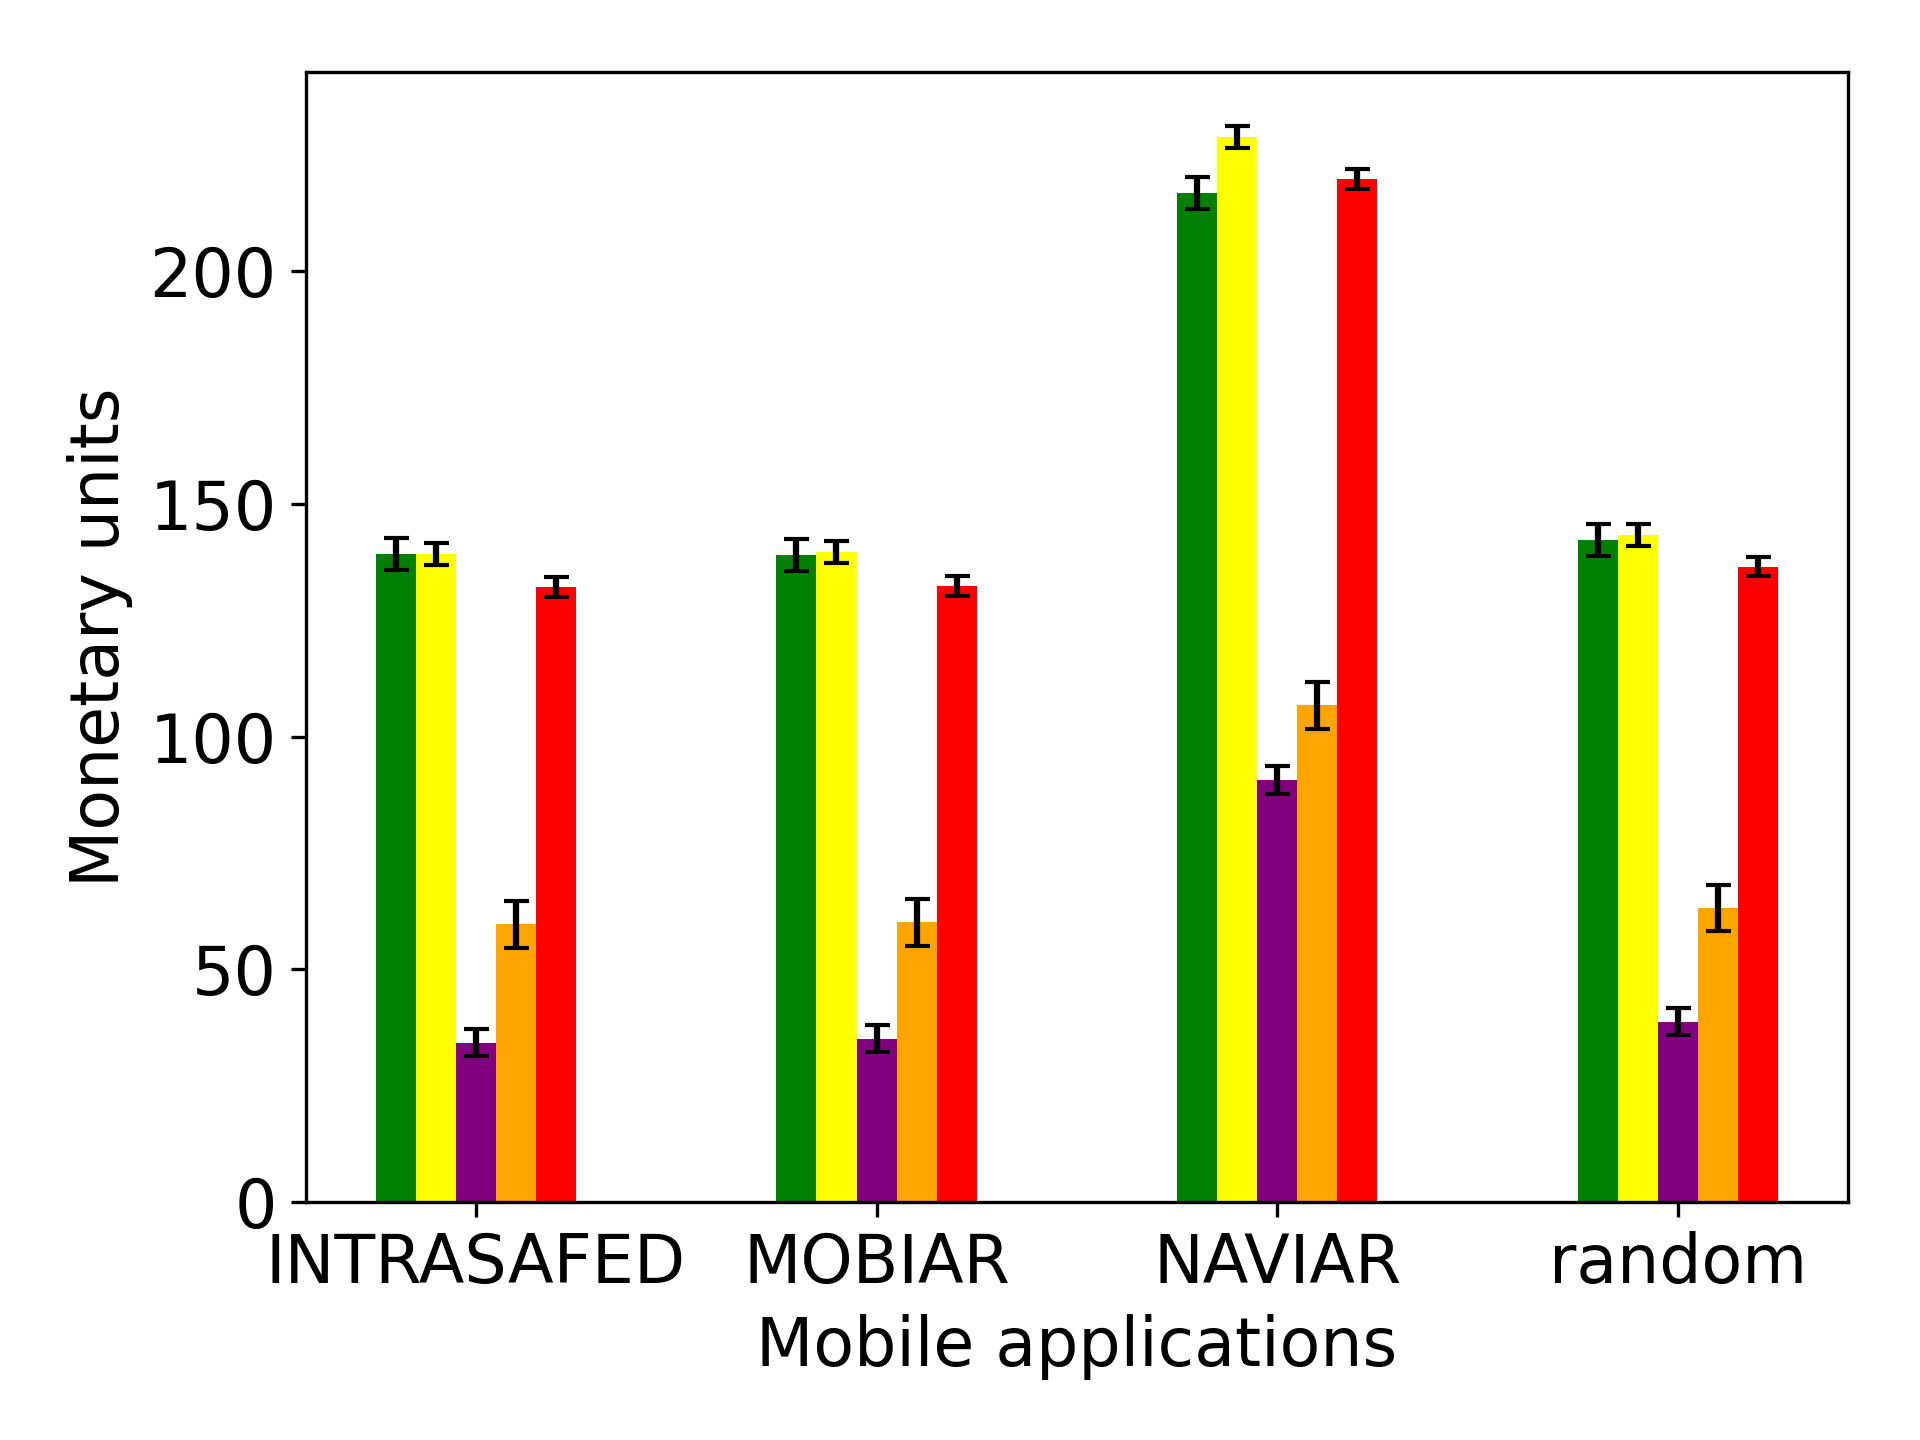
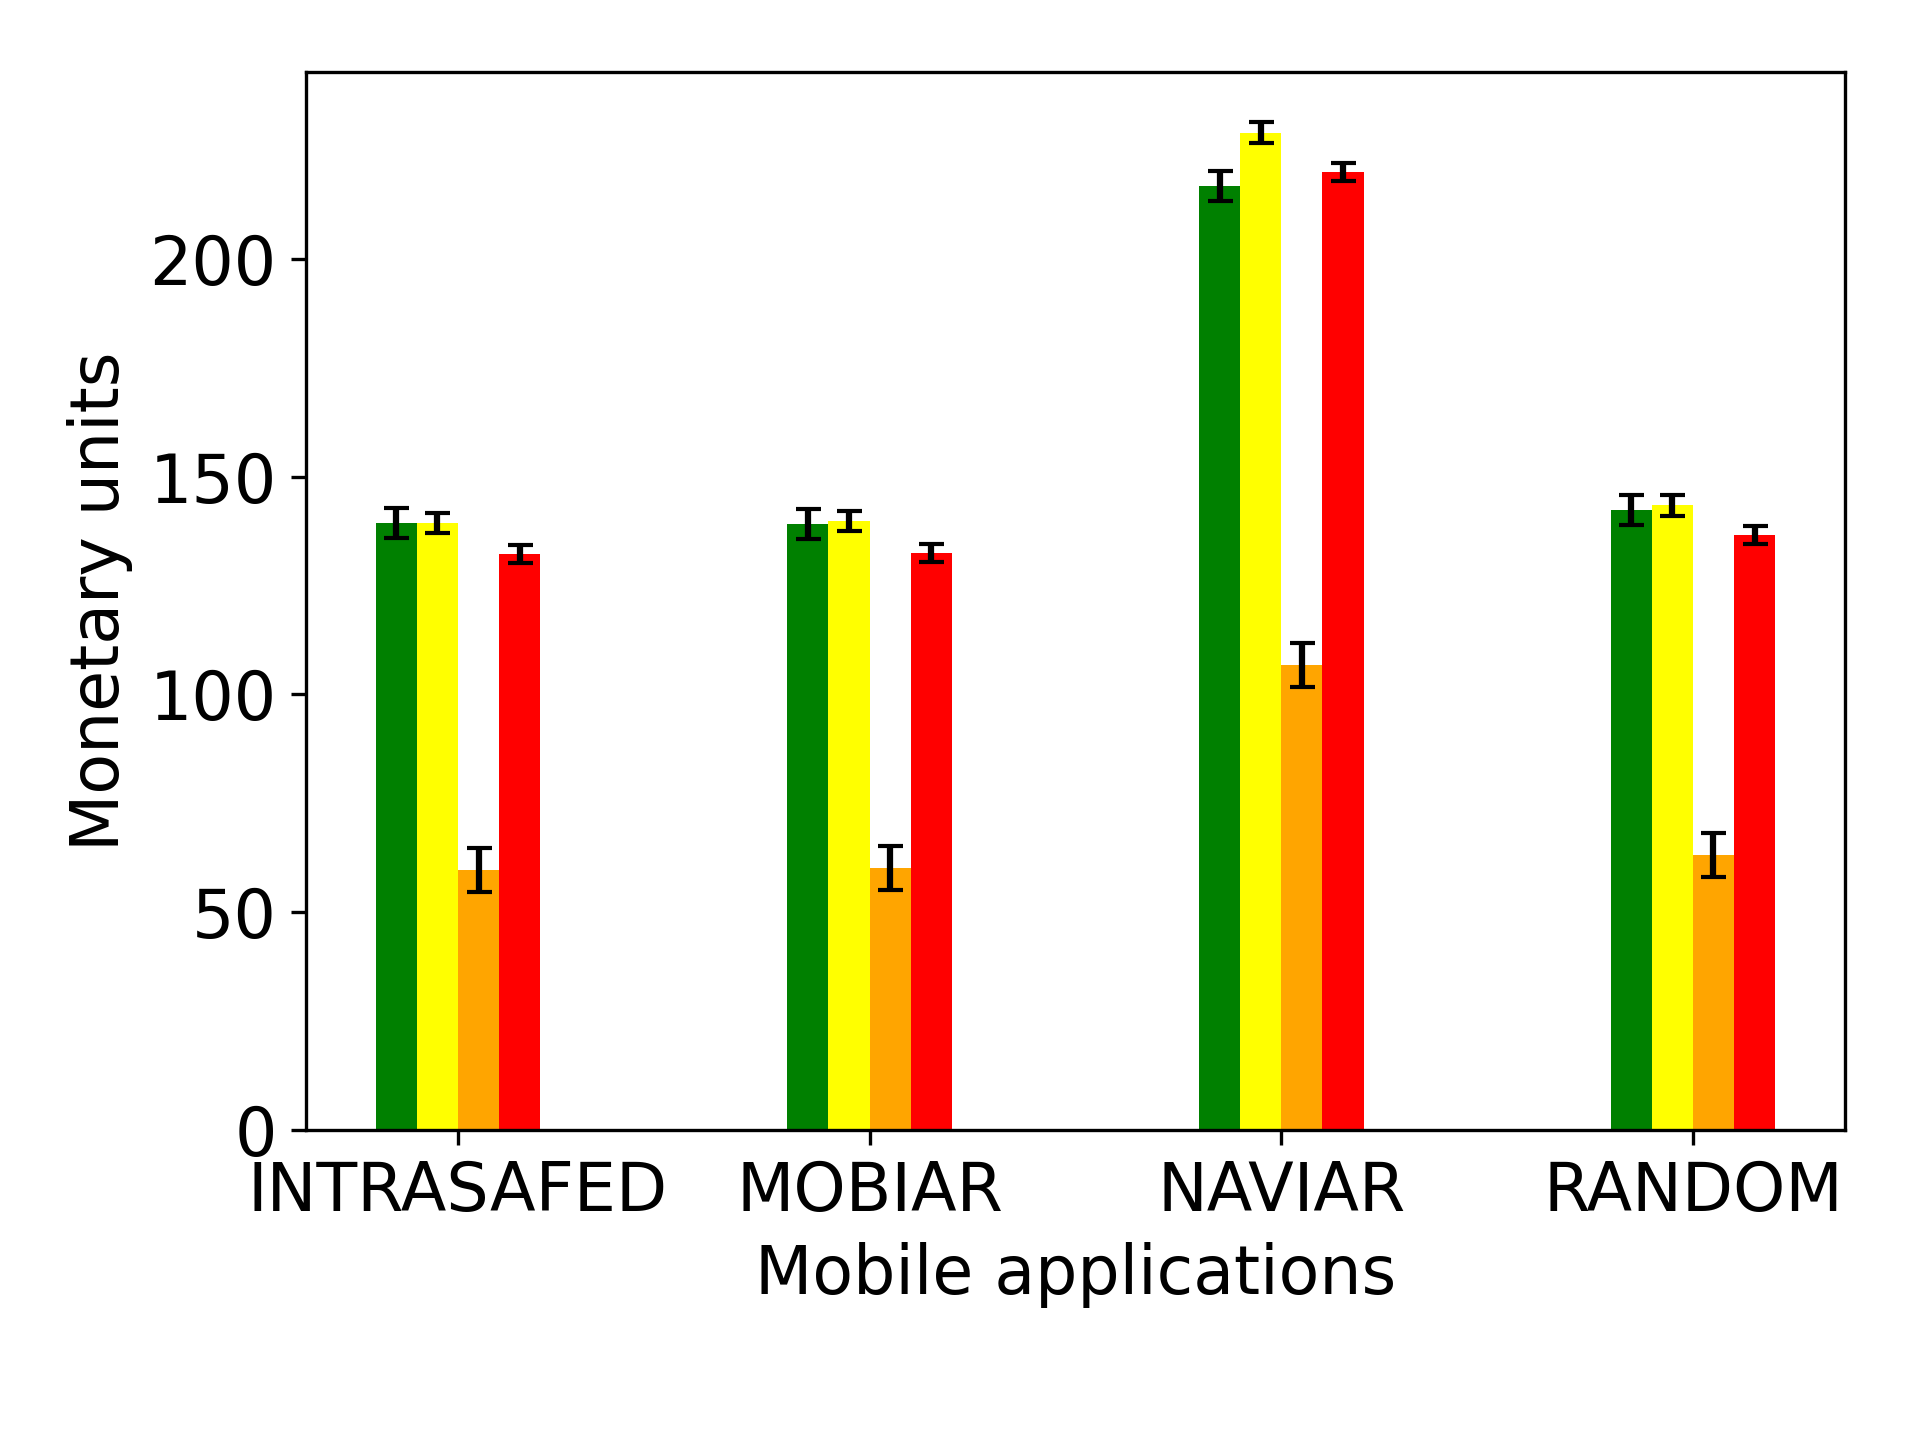
Update results plots with minor labelling, title and layour changes

diff --git a/src/results.py b/src/results.py
@@ -9,6 +9,8 @@ from util import MobApps
 
 def _get_log_path(ode_name, app_name):
   """Return path to the log file for given ODE and application."""
+  if app_name == 'RANDOM':
+    app_name = app_name.lower()
   if ode_name == 'SMT' and app_name == 'random':
     return f"logs/sim_traces_MINLP_{app_name}.txt"
   return f"logs/sim_traces_{ode_name}_{app_name}.txt"
@@ -26,9 +28,9 @@ def _maybe_savefig(filename, save_dir):
 
 def overhead_plot (save_dir = None):
   data = dict ()
-  ode_names = ["SMT", "SQ_MOBILE_EDGE", "MDP", "QRL", "FRESCO"]
-  # Include all targeted applications and the random workload
-  app_names = [MobApps.INTRASAFED, MobApps.MOBIAR, MobApps.NAVIAR, 'random']
+  ode_names = ["SMT", "SQ_MOBILE_EDGE", "QRL", "FRESCO"]
+  # Include all targeted applications and the RANDOM workload
+  app_names = [MobApps.INTRASAFED, MobApps.MOBIAR, MobApps.NAVIAR, 'RANDOM']
 
   for ode in ode_names:
     data[ode] = list ([list (), list ()])
@@ -57,11 +59,10 @@ def overhead_plot (save_dir = None):
       data[ode][1].append (ele[1])
 
   plt.rcParams.update({'font.size': 16})
-  plt.scatter(data[ode_names[0]][0], np.log(data[ode_names[0]][1]), marker='o', color='red', label='MINLP')
-  plt.scatter(data[ode_names[1]][0], np.log(data[ode_names[1]][1]), marker='x', color='blue', label='SQ EDGE')
-  plt.scatter(data[ode_names[2]][0], np.log(data[ode_names[2]][1]), marker='.', color='green', label='MDP')
-  plt.scatter(data[ode_names[3]][0], np.log(data[ode_names[3]][1]), marker='+', color='orange', label='QRL')
-  plt.scatter(data[ode_names[4]][0], np.log(data[ode_names[4]][1]), marker='^', color='magenta', label='FRESCO')
+  plt.scatter(data["SMT"][0], np.log(data["SMT"][1]), marker='o', color='red', label='MINLP')
+  plt.scatter(data["SQ_MOBILE_EDGE"][0], np.log(data["SQ_MOBILE_EDGE"][1]), marker='x', color='blue', label='SQ')
+  plt.scatter(data["QRL"][0], np.log(data["QRL"][1]), marker='+', color='orange', label='QRL')
+  plt.scatter(data["FRESCO"][0], np.log(data["FRESCO"][1]), marker='^', color='magenta', label='FRESCO')
   plt.xlabel('Number of nodes')
   plt.ylabel(r'Time (ms) [$log_{10}$ scale]')
   plt.tight_layout ()
@@ -71,19 +72,19 @@ def overhead_plot (save_dir = None):
 
 
 def overhead_print(data):
-  ode_names = ["SMT", "SQ_MOBILE_EDGE", "MDP", "QRL", "FRESCO"]
+  ode_names = ["SMT", "SQ_MOBILE_EDGE", "QRL", "FRESCO"]
 
   print ("Average time overhead:")
-  for i in range (len (ode_names)):
-    print (ode_names[i] + ": " + str (np.mean (data[ode_names[i]][1])) + " ms (" + str (data[ode_names[i]][1]) + ")" + \
-      ", std: " + str (np.std (data[ode_names[i]][1])))
+  for i in range(len(ode_names)):
+    print(ode_names[i] + ": " + str(np.mean(data[ode_names[i]][1])) + " ms (" + str(data[ode_names[i]][1]) + ")" +
+          ", std: " + str(np.std(data[ode_names[i]][1])))
 
 def plot_objective (regex_exp, y_axis_title, show, save_dir=None, filename='objective.png'):
-  # Add 'random' to include evaluation logs for the random workload
-  app_names = [MobApps.INTRASAFED, MobApps.MOBIAR, MobApps.NAVIAR, 'random']
+  # Add 'RANDOM' to include evaluation logs for the RANDOM workload
+  app_names = [MobApps.INTRASAFED, MobApps.MOBIAR, MobApps.NAVIAR, 'RANDOM']
   x = np.arange(len(app_names))
-  ode_names = ["SMT", "SQ_MOBILE_EDGE", "MDP", "QRL", "FRESCO"]
-  yerr_ode = {"SMT": 0.0, "SQ_MOBILE_EDGE": 0.0, "MDP": 0.0, "QRL": 0.0, "FRESCO": 0.0}
+  ode_names = ["SMT", "SQ_MOBILE_EDGE", "QRL", "FRESCO"]
+  yerr_ode = {"SMT": 0.0, "SQ_MOBILE_EDGE": 0.0, "QRL": 0.0, "FRESCO": 0.0}
   result = dict ()
 
   for ode_n in ode_names:
@@ -101,15 +102,31 @@ def plot_objective (regex_exp, y_axis_title, show, save_dir=None, filename='obje
 
   plt.rcParams.update({'font.size': 16})
   ax = plt.subplot(111)
-  ax.bar(x - 0.2, result['SMT'], yerr=yerr_ode['SMT'], width=0.1, color='green',
+
+  err_smt = np.array([
+      [min(yerr_ode['SMT'], v) for v in result['SMT']],
+      [yerr_ode['SMT'] for _ in result['SMT']]
+  ])
+  err_sq = np.array([
+      [min(yerr_ode['SQ_MOBILE_EDGE'], v) for v in result['SQ_MOBILE_EDGE']],
+      [yerr_ode['SQ_MOBILE_EDGE'] for _ in result['SQ_MOBILE_EDGE']]
+  ])
+  err_qrl = np.array([
+      [min(yerr_ode['QRL'], v) for v in result['QRL']],
+      [yerr_ode['QRL'] for _ in result['QRL']]
+  ])
+  err_fresco = np.array([
+      [min(yerr_ode['FRESCO'], v) for v in result['FRESCO']],
+      [yerr_ode['FRESCO'] for _ in result['FRESCO']]
+  ])
+
+  ax.bar(x - 0.15, result['SMT'], yerr=err_smt, width=0.1, color='green',
          align='center', label='MINLP', capsize=3)
-  ax.bar(x - 0.1, result['SQ_MOBILE_EDGE'], yerr=yerr_ode['SQ_MOBILE_EDGE'], width=0.1,
-         color='yellow', align='center', label='SQ EDGE', capsize=3)
-  ax.bar(x, result['MDP'], yerr=yerr_ode['MDP'], width=0.1, color='purple',
-         align='center', label='MDP', capsize=3)
-  ax.bar(x + 0.1, result['QRL'], yerr=yerr_ode['QRL'], width=0.1, color='orange',
+  ax.bar(x - 0.05, result['SQ_MOBILE_EDGE'], yerr=err_sq, width=0.1,
+         color='yellow', align='center', label='SQ', capsize=3)
+  ax.bar(x + 0.05, result['QRL'], yerr=err_qrl, width=0.1, color='orange',
          align='center', label='QRL', capsize=3)
-  ax.bar(x + 0.2, result['FRESCO'], yerr=yerr_ode['FRESCO'], width=0.1, color='red',
+  ax.bar(x + 0.15, result['FRESCO'], yerr=err_fresco, width=0.1, color='red',
          align='center', label='FRESCO', capsize=3)
 
   plt.xlabel('Mobile applications')
@@ -120,11 +137,13 @@ def plot_objective (regex_exp, y_axis_title, show, save_dir=None, filename='obje
   if y_axis_title == "Battery lifetime (%)":
     ax.set_ylim (60, 100)
 
-  # showing legend on the figure or not
-  if show:
-    plt.legend()
+  # showing legend only for response time plots
+  if y_axis_title == 'Response time (seconds)' and show:
+    plt.legend(loc='upper left', fontsize=12)
+    ax.set_ylim(0, 80)
 
-  plt.tight_layout ()
+  # Increase bottom margin to avoid overlap
+  plt.tight_layout(rect=[0, 0.05, 1, 1])
   _maybe_savefig(filename, save_dir)
 
 def stacked_bar(data, series_labels, color_labels, category_labels = None, 
@@ -192,10 +211,10 @@ def plot_offloading_distributions (save_dir=None):
   plt.rcParams.update({'font.size': 16})
   # key: ODE, value: {key: app, value: {key: site, value: distribution percentage}}}
   offload_dist_dict = dict ()
-  # Include random workload results alongside fixed applications
-  app_names = [MobApps.INTRASAFED, MobApps.MOBIAR, MobApps.NAVIAR, 'random']
+  # Include RANDOM workload results alongside fixed applications
+  app_names = [MobApps.INTRASAFED, MobApps.MOBIAR, MobApps.NAVIAR, 'RANDOM']
   x = np.arange(len(app_names))
-  ode_names = ["SMT", "SQ_MOBILE_EDGE", "MDP", "QRL", "FRESCO"]
+  ode_names = ["SMT", "SQ_MOBILE_EDGE", "QRL", "FRESCO"]
   result = dict ()
   regex_ex = "Offloading distribution \(percentage\): {'(ER[^']*'): (\d+\.\d+), '(ED[^']*'): (\d+\.\d+)," + \
     " '(EC[^']*'): (\d+\.\d+), '(CD[^']*'): (\d+\.\d+), '(MD[^']*'): (\d+\.\d+)}"
@@ -227,22 +246,17 @@ def plot_offloading_distributions (save_dir=None):
   # print (result)
   # exit ()
   for app in app_names:
-    data = list ()
+    data = list()
     data.append((result[ode_names[0]][app]["MD"], result[ode_names[1]][app]["MD"],
-                 result[ode_names[2]][app]["MD"], result[ode_names[3]][app]["MD"],
-                 result[ode_names[4]][app]["MD"]))
+                 result[ode_names[2]][app]["MD"], result[ode_names[3]][app]["MD"]))
     data.append((result[ode_names[0]][app]["ER"], result[ode_names[1]][app]["ER"],
-                 result[ode_names[2]][app]["ER"], result[ode_names[3]][app]["ER"],
-                 result[ode_names[4]][app]["ER"]))
+                 result[ode_names[2]][app]["ER"], result[ode_names[3]][app]["ER"]))
     data.append((result[ode_names[0]][app]["ED"], result[ode_names[1]][app]["ED"],
-                 result[ode_names[2]][app]["ED"], result[ode_names[3]][app]["ED"],
-                 result[ode_names[4]][app]["ED"]))
+                 result[ode_names[2]][app]["ED"], result[ode_names[3]][app]["ED"]))
     data.append((result[ode_names[0]][app]["CD"], result[ode_names[1]][app]["CD"],
-                 result[ode_names[2]][app]["CD"], result[ode_names[3]][app]["CD"],
-                 result[ode_names[4]][app]["CD"]))
+                 result[ode_names[2]][app]["CD"], result[ode_names[3]][app]["CD"]))
     data.append((result[ode_names[0]][app]["EC"], result[ode_names[1]][app]["EC"],
-                 result[ode_names[2]][app]["EC"], result[ode_names[3]][app]["EC"],
-                 result[ode_names[4]][app]["EC"]))
+                 result[ode_names[2]][app]["EC"], result[ode_names[3]][app]["EC"]))
 
     series_labels = ['MD', 'ER', 'ED', 'CD', 'EC']
     color_labels = ['lightgreen', 'lightblue', 'lightpink', 'yellow', 'lavender']
@@ -250,13 +264,14 @@ def plot_offloading_distributions (save_dir=None):
     fig = plt.figure(figsize = (8, 6))
     ax = fig.add_axes([0.1, 0.1, 0.6, 0.75])
 
-    stacked_bar(data,
+    stacked_bar(
+          data,
           series_labels,
           color_labels,
-          category_labels = ["MINLP", "SQ EDGE", "MDP", "QRL", "FRESCO"],
-          show_values = True, 
-          value_format = "{:.2f}",
-          y_label = "Quantity (units)") 
+          category_labels=["MINLP", "SQ", "QRL", "FRESCO"],
+          show_values=True,
+          value_format="{:.2f}",
+          y_label="Quantity (units)")
 
     # ax.set_title (app + " application")
     ax.set_xlabel('Offloading decision engines', fontsize = 16)
@@ -270,10 +285,10 @@ def print_constraint_violation_distribution (samples):
   plt.rcParams.update({'font.size': 16})
   # key: ODE, value: {key: app, value: {key: site, value: distribution percentage}}}
   offload_dist_dict = dict ()
-  # Consider the random workload in constraint violation distribution
-  app_names = [MobApps.INTRASAFED, MobApps.MOBIAR, MobApps.NAVIAR, 'random']
+  # Consider the RANDOM workload in constraint violation distribution
+  app_names = [MobApps.INTRASAFED, MobApps.MOBIAR, MobApps.NAVIAR, 'RANDOM']
   x = np.arange(len(app_names))
-  ode_names = ["SMT", "SQ_MOBILE_EDGE", "MDP", "QRL", "FRESCO"]
+  ode_names = ["SMT", "SQ_MOBILE_EDGE", "QRL", "FRESCO"]
   result = dict ()
 
   for ode_n in ode_names:
@@ -314,11 +329,11 @@ def print_constraint_violation_distribution (samples):
 
 
 def plot_average_qos_viols (regex, title, save_dir=None, filename='qos_viols.png'):
-  # Evaluate QoS violations for all apps including the random workload
-  app_n = [MobApps.INTRASAFED, MobApps.MOBIAR, MobApps.NAVIAR, 'random']
+  # Evaluate QoS violations for all apps including the RANDOM workload
+  app_n = [MobApps.INTRASAFED, MobApps.MOBIAR, MobApps.NAVIAR, 'RANDOM']
   x = np.arange(len(app_n))
-  ode_names = ["SMT", "SQ_MOBILE_EDGE", "MDP", "QRL", "FRESCO"]
-  yerr_ode = {"SMT": 0.0, "SQ_MOBILE_EDGE": 0.0, "MDP": 0.0, "QRL": 0.0, "FRESCO": 0.0}
+  ode_names = ["SMT", "SQ_MOBILE_EDGE", "QRL", "FRESCO"]
+  yerr_ode = {"SMT": 0.0, "SQ_MOBILE_EDGE": 0.0, "QRL": 0.0, "FRESCO": 0.0}
   result = dict ()
   # flag to detect when final part of result log will be parsed 
   # for summarizing overall task failure rate
@@ -339,16 +354,32 @@ def plot_average_qos_viols (regex, title, save_dir=None, filename='qos_viols.png
   # print (result)
   plt.rcParams.update({'font.size': 14})
   ax = plt.subplot(111)
-  ax.bar(x - 0.2, result['SMT'], yerr=yerr_ode['SMT'], width=0.1, color='green',
-         align='center', label='MINLP', capsize=3)
-  ax.bar(x - 0.1, result['SQ_MOBILE_EDGE'], yerr=yerr_ode['SQ_MOBILE_EDGE'], width=0.1,
-         color='yellow', align='center', label='SQ EDGE', capsize=3)
-  ax.bar(x, result['MDP'], yerr=yerr_ode['MDP'], width=0.1, color='purple',
-         align='center', label='MDP', capsize=3)
-  ax.bar(x + 0.1, result['QRL'], yerr=yerr_ode['QRL'], width=0.1, color='orange',
-         align='center', label='QRL', capsize=3)
-  ax.bar(x + 0.2, result['FRESCO'], yerr=yerr_ode['FRESCO'], width=0.1, color='red',
-         align='center', label='FRESCO', capsize=3)
+  # Asymmetric error bars that avoid negative lower bounds
+  err_smt = np.array([
+    [min(result['SMT'][i], yerr_ode['SMT']) for i in range(len(result['SMT']))],  # lower error
+    [yerr_ode['SMT']] * len(result['SMT'])                                       # upper error
+])
+  err_sq = np.array([
+    [min(result['SQ_MOBILE_EDGE'][i], yerr_ode['SQ_MOBILE_EDGE']) for i in range(len(result['SQ_MOBILE_EDGE']))],
+    [yerr_ode['SQ_MOBILE_EDGE']] * len(result['SQ_MOBILE_EDGE'])
+])
+  err_qrl = np.array([
+    [min(result['QRL'][i], yerr_ode['QRL']) for i in range(len(result['QRL']))],
+    [yerr_ode['QRL']] * len(result['QRL'])
+])
+  err_fresco = np.array([
+    [min(result['FRESCO'][i], yerr_ode['FRESCO']) for i in range(len(result['FRESCO']))],
+    [yerr_ode['FRESCO']] * len(result['FRESCO'])
+])
+
+  ax.bar(x - 0.15, result['SMT'], yerr=err_smt, width=0.1, color='green',
+       align='center', label='MINLP', capsize=3)
+  ax.bar(x - 0.05, result['SQ_MOBILE_EDGE'], yerr=err_sq, width=0.1, color='yellow',
+       align='center', label='SQ', capsize=3)
+  ax.bar(x + 0.05, result['QRL'], yerr=err_qrl, width=0.1, color='orange',
+       align='center', label='QRL', capsize=3)
+  ax.bar(x + 0.15, result['FRESCO'], yerr=err_fresco, width=0.1, color='red',
+       align='center', label='FRESCO', capsize=3)
 
   plt.ylabel(title)
   plt.xlabel("Mobile applications")
@@ -359,10 +390,10 @@ def plot_average_qos_viols (regex, title, save_dir=None, filename='qos_viols.png
 
 
 def plot_average_constr_viols (regex, title, samples, save_dir=None, filename='constr_viols.png'):
-  # Include random workload when evaluating constraint violations
-  app_n = [MobApps.NAVIAR, MobApps.MOBIAR, MobApps.INTRASAFED, 'random']
+  # Include RANDOM workload when evaluating constraint violations
+  app_n = [MobApps.NAVIAR, MobApps.MOBIAR, MobApps.INTRASAFED, 'RANDOM']
   x = np.arange(len(app_n))
-  ode_names = ["SMT", "SQ_MOBILE_EDGE", "MDP", "QRL", "FRESCO"]
+  ode_names = ["SMT", "SQ_MOBILE_EDGE", "QRL", "FRESCO"]
   result = dict ()
   # flag to detect when final part of result log will be parsed 
   # for summarizing overall task failure rate
@@ -390,11 +421,10 @@ def plot_average_constr_viols (regex, title, samples, save_dir=None, filename='c
   print (result)
   plt.rcParams.update({'font.size': 14})
   ax = plt.subplot(111)
-  ax.bar(x - 0.2, result['SMT'], width=0.1, color='green', align='center', label='MINLP')
-  ax.bar(x - 0.1, result['SQ_MOBILE_EDGE'], width=0.1, color='yellow', align='center', label='SQ EDGE')
-  ax.bar(x, result['MDP'], width=0.1, color='purple', align='center', label='MDP')
-  ax.bar(x + 0.1, result['QRL'], width=0.1, color='orange', align='center', label='QRL')
-  ax.bar(x + 0.2, result['FRESCO'], width=0.1, color='red', align='center', label='FRESCO')
+  ax.bar(x - 0.15, result['SMT'], width=0.1, color='green', align='center', label='MINLP')
+  ax.bar(x - 0.05, result['SQ_MOBILE_EDGE'], width=0.1, color='yellow', align='center', label='SQ')
+  ax.bar(x + 0.05, result['QRL'], width=0.1, color='orange', align='center', label='QRL')
+  ax.bar(x + 0.15, result['FRESCO'], width=0.1, color='red', align='center', label='FRESCO')
 
   plt.ylabel(title)
   plt.xlabel("Mobile applications")
@@ -407,7 +437,7 @@ def plot_objective_with_mal (regex_exp, y_axis_title, show, save_dir=None, filen
   app_n = MobApps.NAVIAR
   mal_scenarios = ["MAL1/5", "MAL2/5a", "MAL2/5b", "MAL2/5c"]
   x = np.arange(len(mal_scenarios))
-  ode_names = ["FRESCO", "SMT", "SQ_MOBILE_EDGE", "MDP"]
+  ode_names = ["FRESCO", "SMT", "SQ_MOBILE_EDGE"]
   result = dict ()
 
   for ode_n in ode_names:
@@ -435,14 +465,12 @@ def plot_objective_with_mal (regex_exp, y_axis_title, show, save_dir=None, filen
 
   plt.rcParams.update({'font.size': 16})
   ax = plt.subplot(111)
-  ax.bar(x - 0.2, result['FRESCO'], width = 0.1, color = 'red', \
-    align = 'center', label = 'FRESCO')
-  ax.bar(x - 0.1, result['SMT'], width = 0.1, color = 'green', \
-    align = 'center', label = 'MINLP')
-  ax.bar(x, result['SQ'], width = 0.1, color = 'yellow', \
-    align = 'center', label = 'SQ MOBILE-EDGE')
-  ax.bar(x + 0.1, result['MDP'], width = 0.1, color = 'purple', \
-    align = 'center', label = 'MDP')
+  ax.bar(x - 0.15, result['FRESCO'], width=0.1, color='red',
+    align='center', label='FRESCO')
+  ax.bar(x - 0.05, result['SMT'], width=0.1, color='green',
+    align='center', label='MINLP')
+  ax.bar(x + 0.05, result['SQ'], width=0.1, color='yellow',
+    align='center', label='SQ')
 
   plt.ylabel(y_axis_title)
   plt.xlabel("Malicious scenarios")
